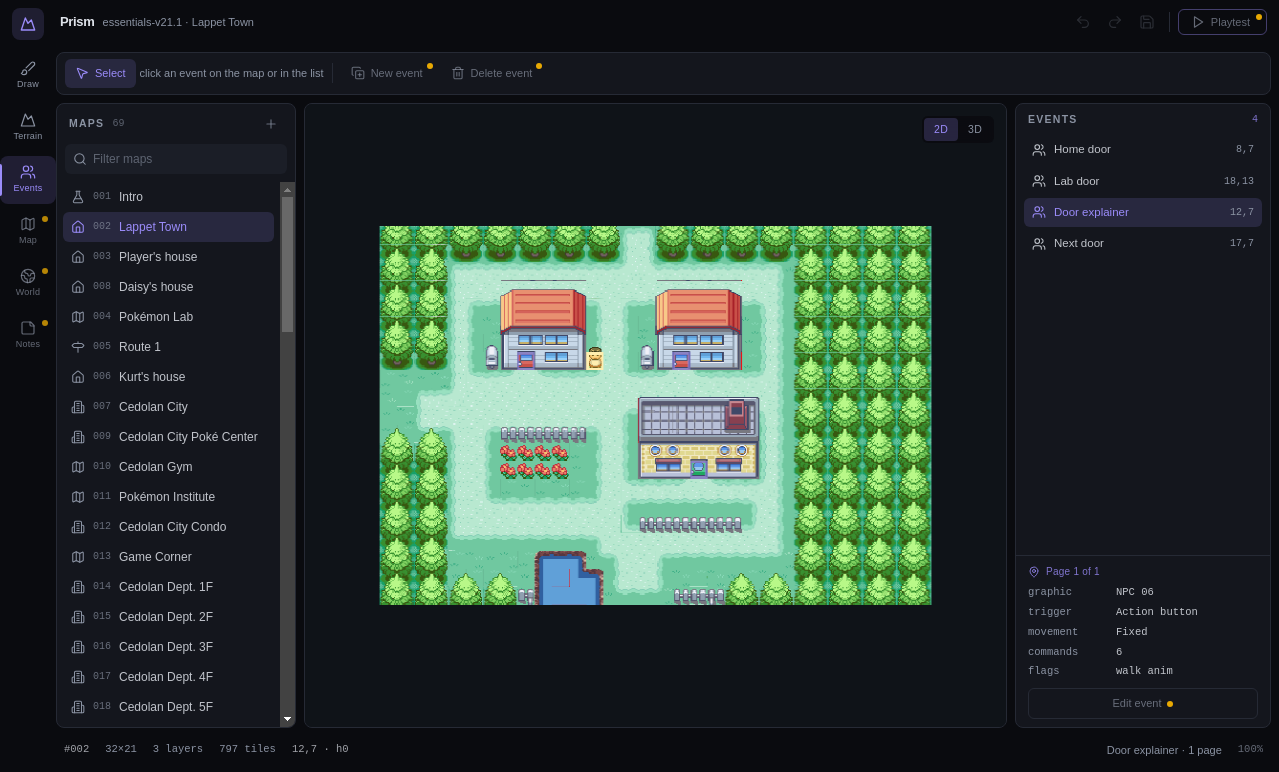
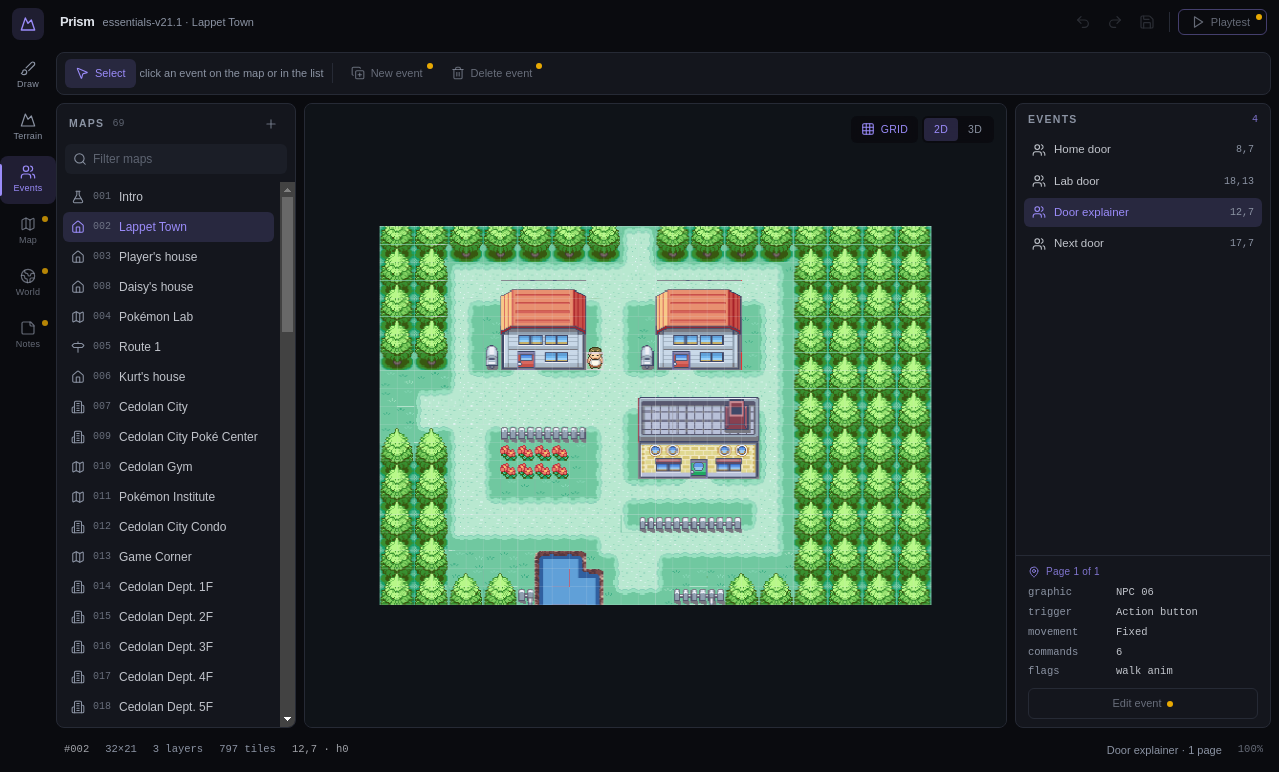
Desenhar a grade de celulas e suavizar as marcas
- Grade ligada por padrao, com botao Grid ao lado do 2D/3D para desligar.
  Linha fina em cada celula e uma mais firme a cada oito, que e o passo do
  tileset. So em 2D: a camera olha reto para baixo, entao grade plana cai
  exatamente na borda da celula por mais que o terreno suba, enquanto em 3D
  ela cortaria o relevo sem ajudar a ler nada.
- Contorno de evento mais fino e mais discreto, e o selecionado passou de
  branco cheio para violeta claro.
- O quadrado que segue o cursor ficou ambar palido em vez de ambar forte.

A grade tambem serviu de regua para uma duvida legitima, se os tiles estao
mesmo encaixados na celula: medindo a borda da parede da casa contra a rede de
celulas, o desvio e de 0,7 pixel de tela. Estao no lugar. O que da impressao de
desencaixe e a reducao: tile de 32 pixels desenhado com uns 17 na tela faz
celula vizinha sair com largura diferente por arredondamento. Zoom em escala
inteira resolve, e ainda nao existe.

Claude-Session: https://claude.ai/code/session_015tLAZHL6PNxbo6Qgs82MPs

Changed region(s): [[0.4574, 0.4352, 0.4879, 0.4974], [0.6708, 0.1554, 0.7013, 0.1865]]

diff --git a/packages/editor/src/ui/viewport/scene3d.ts b/packages/editor/src/ui/viewport/scene3d.ts
@@ -7,6 +7,8 @@ import {
   Mesh,
   MeshBasicMaterial,
   MOUSE,
+  LineBasicMaterial,
+  LineSegments,
   NearestFilter,
   OrthographicCamera,
   PerspectiveCamera,
@@ -69,6 +71,8 @@ export interface Viewport {
   show(scene: BuiltScene, images: ViewportImages): Promise<void>;
   pickCell(x: number, y: number): PickedCell | null;
   highlight(cell: PickedCell | null): void;
+  /** Liga a grade de celulas, que so aparece em 2D. */
+  setGrid(on: boolean): void;
   /** Marca a celula de cada evento, para os que quase nao aparecem. */
   setEventMarks(on: boolean): void;
   /** Destaca um evento pelo id, ou nenhum. */
@@ -177,6 +181,18 @@ export function createViewport(canvas: HTMLCanvasElement): Viewport {
   const marks: { mesh: Mesh; id: number }[] = [];
   let marksOn = false;
   let selected: number | null = null;
+
+  /**
+   * A grade de celulas.
+   *
+   * Plana e por cima de tudo, sem teste de profundidade. Em 2D a camera olha
+   * reto para baixo, entao uma grade plana cai exatamente em cima das bordas
+   * de celula por mais que o terreno suba: elevacao muda a altura, nao a
+   * posicao no plano. Em 3D ela some, porque grade plana cortando relevo nao
+   * ajuda a ler nada.
+   */
+  let grid: { minor: LineSegments; major: LineSegments } | null = null;
+  let gridOn = true;
   /**
    * Textura por URL, viva enquanto a viewport existir.
    *
@@ -197,9 +213,9 @@ export function createViewport(canvas: HTMLCanvasElement): Viewport {
   const marker = new Mesh(
     new PlaneGeometry(1, 1),
     new MeshBasicMaterial({
-      color: 0xffd94d,
+      color: 0xffe9a3,
       transparent: true,
-      opacity: 0.45,
+      opacity: 0.22,
       depthTest: false,
       side: DoubleSide,
     }),
@@ -373,11 +389,11 @@ export function createViewport(canvas: HTMLCanvasElement): Viewport {
       sprites.push({ mesh, billboard });
 
       const mark = new Mesh(
-        outlineGeometry(0.12),
+        outlineGeometry(0.06),
         new MeshBasicMaterial({
           color: 0x9b8cfa,
           transparent: true,
-          opacity: 0.55,
+          opacity: 0.35,
           depthTest: false,
           side: DoubleSide,
         }),
@@ -481,6 +497,7 @@ export function createViewport(canvas: HTMLCanvasElement): Viewport {
 
     lastSizes = sizes;
     drawEvents(next, sizes, loaded);
+    buildGrid(next);
 
     frame(next);
     resize();
@@ -517,14 +534,96 @@ export function createViewport(canvas: HTMLCanvasElement): Viewport {
     marker.visible = true;
   }
 
+  /**
+   * Refaz a grade para o mapa aberto.
+   *
+   * Duas malhas: a fina em cada celula, e uma mais firme a cada oito, que e o
+   * passo do tileset e o que deixa contar distancia sem ficar somando de um
+   * em um.
+   */
+  function buildGrid(target: BuiltScene): void {
+    if (grid !== null) {
+      for (const lines of [grid.minor, grid.major]) {
+        scene.remove(lines);
+        lines.geometry.dispose();
+        (lines.material as LineBasicMaterial).dispose();
+      }
+      grid = null;
+    }
+
+    const step = target.tileSize;
+    const half = step / 2;
+    const left = -half;
+    const top = -half;
+    const right = (target.width - 1) * step + half;
+    const bottom = (target.height - 1) * step + half;
+    // Acima de tudo que a cena desenha, e sem teste de profundidade: a grade e
+    // ajuda de edicao, nao parte do mundo.
+    const y = 0.5;
+
+    const minor: number[] = [];
+    const major: number[] = [];
+    const MAJOR_EVERY = 8;
+
+    for (let x = 0; x <= target.width; x += 1) {
+      const at = left + x * step;
+      const into = x % MAJOR_EVERY === 0 ? major : minor;
+      into.push(at, y, top, at, y, bottom);
+    }
+    for (let z = 0; z <= target.height; z += 1) {
+      const at = top + z * step;
+      const into = z % MAJOR_EVERY === 0 ? major : minor;
+      into.push(left, y, at, right, y, at);
+    }
+
+    const lines = (points: number[], color: number, opacity: number) => {
+      const geometry = new BufferGeometry();
+      geometry.setAttribute(
+        "position",
+        new BufferAttribute(new Float32Array(points), 3),
+      );
+      const mesh = new LineSegments(
+        geometry,
+        new LineBasicMaterial({
+          color,
+          transparent: true,
+          opacity,
+          depthTest: false,
+        }),
+      );
+      mesh.renderOrder = 9;
+      scene.add(mesh);
+      return mesh;
+    };
+
+    grid = {
+      minor: lines(minor, 0xdfe3ea, 0.15),
+      major: lines(major, 0xdfe3ea, 0.3),
+    };
+    paintGrid();
+  }
+
+  /** A grade vale so em 2D, e so quando ligada. */
+  function paintGrid(): void {
+    const on = gridOn && mode === "2d";
+    if (grid === null) return;
+    grid.minor.visible = on;
+    grid.major.visible = on;
+  }
+
+  function setGrid(on: boolean): void {
+    gridOn = on;
+    paintGrid();
+  }
+
   /** Aplica a visibilidade e o destaque das marcas de evento. */
   function paintMarks(): void {
     for (const { mesh, id } of marks) {
       mesh.visible = marksOn;
       const material = mesh.material as MeshBasicMaterial;
       const chosen = id === selected;
-      material.opacity = chosen ? 1 : 0.55;
-      material.color.set(chosen ? 0xffffff : 0x9b8cfa);
+      material.opacity = chosen ? 0.7 : 0.35;
+      material.color.set(chosen ? 0xd9d0ff : 0x9b8cfa);
     }
   }
 
@@ -551,6 +650,7 @@ export function createViewport(canvas: HTMLCanvasElement): Viewport {
     controls = new OrbitControls(camera, canvas);
 
     framedFor = "";
+    paintGrid();
     if (built !== null) {
       layoutEvents(built, lastSizes);
       frame(built);
@@ -581,12 +681,21 @@ export function createViewport(canvas: HTMLCanvasElement): Viewport {
     show,
     pickCell,
     highlight,
+    setGrid,
     setEventMarks,
     selectEvent,
     setMode,
     resize,
     dispose(): void {
       clear();
+      if (grid !== null) {
+        for (const lines of [grid.minor, grid.major]) {
+          scene.remove(lines);
+          lines.geometry.dispose();
+          (lines.material as LineBasicMaterial).dispose();
+        }
+        grid = null;
+      }
       for (const texture of textureCache.values()) texture.dispose();
       textureCache.clear();
       controls.dispose();

diff --git a/packages/editor/src/ui/App.tsx b/packages/editor/src/ui/App.tsx
@@ -1,3 +1,4 @@
+import { Grid3x3 } from "lucide-react";
 import { useCallback, useEffect, useRef, useState } from "react";
 import { applyBrush, levelTo } from "../scene/elevation.js";
 import {
@@ -40,6 +41,7 @@ export function App() {
   const [layer, setLayer] = useState(0);
   const [stamp, setStamp] = useState<Stamp>(singleStamp(384));
   const [view, setView] = useState<"2d" | "3d">("2d");
+  const [grid, setGrid] = useState(true);
   const [hovered, setHovered] = useState<PickedCell | null>(null);
   const [event, setEvent] = useState<number | null>(null);
   const [message, setMessage] = useState<string | null>(null);
@@ -252,9 +254,10 @@ export function App() {
    * as marcas nascem escondidas.
    */
   useEffect(() => {
+    viewport.current?.setGrid(grid);
     viewport.current?.setEventMarks(mode === "events");
     viewport.current?.selectEvent(mode === "events" ? event : null);
-  }, [mode, event, project.revision, state.map]);
+  }, [mode, event, grid, project.revision, state.map]);
 
   useEffect(() => {
     function onKey(event: KeyboardEvent): void {
@@ -351,7 +354,27 @@ export function App() {
           />
 
           <main className="relative min-w-0 flex-1 overflow-hidden rounded-lg border border-edge bg-panel">
-            <div className="absolute right-3 top-3 z-10 flex overflow-hidden rounded-md bg-shell/80 p-0.5 backdrop-blur">
+            <div className="absolute right-3 top-3 z-10 flex items-center gap-1">
+              {view === "2d" ? (
+                <button
+                  type="button"
+                  onClick={() => {
+                    setGrid(!grid);
+                    viewport.current?.setGrid(!grid);
+                  }}
+                  aria-pressed={grid}
+                  title="Cell grid"
+                  data-grid={grid ? "on" : "off"}
+                  className={`flex items-center gap-1.5 rounded-md bg-shell/80 px-2.5 py-1.5 text-[10.5px] font-medium tracking-wide backdrop-blur transition-colors ${
+                    grid ? "text-brand" : "text-dim hover:text-body"
+                  }`}
+                >
+                  <Grid3x3 className="h-3.5 w-3.5" strokeWidth={1.8} />
+                  GRID
+                </button>
+              ) : null}
+
+              <div className="flex overflow-hidden rounded-md bg-shell/80 p-0.5 backdrop-blur">
               {(["2d", "3d"] as const).map((option) => (
                 <button
                   key={option}
@@ -371,6 +394,7 @@ export function App() {
                   {option.toUpperCase()}
                 </button>
               ))}
+              </div>
             </div>
 
             {state.error !== null ? (

diff --git a/packages/editor/src/ui/Viewport.tsx b/packages/editor/src/ui/Viewport.tsx
@@ -13,6 +13,7 @@ import type { BuiltScene } from "../scene/buildScene.js";
 export interface ViewportHandle {
   redraw: (scene: BuiltScene) => void;
   highlight: (cell: PickedCell | null) => void;
+  setGrid: (on: boolean) => void;
   setEventMarks: (on: boolean) => void;
   selectEvent: (id: number | null) => void;
   setMode: (mode: ViewMode) => void;
@@ -100,6 +101,7 @@ export function Viewport({
         void view.show(scene, { sources: imagesOf(current) });
       },
       highlight: (cell) => viewRef.current?.highlight(cell),
+      setGrid: (on) => viewRef.current?.setGrid(on),
       setEventMarks: (on) => viewRef.current?.setEventMarks(on),
       selectEvent: (id) => viewRef.current?.selectEvent(id),
       setMode: (mode) => viewRef.current?.setMode(mode),

diff --git a/packages/editor/src/main/main.ts b/packages/editor/src/main/main.ts
@@ -168,6 +168,15 @@ async function rehearseEvents(window: BrowserWindow): Promise<void> {
   // A celula do NPC que explica as portas, em 12,7 no mapa.
   await click(595, 357);
   await wait(400);
+
+  // Desliga e liga a grade, para o ensaio passar pelos dois sentidos do
+  // botao e ainda assim terminar com ela ligada para o print.
+  for (const _ of [0, 1]) {
+    await window.webContents.executeJavaScript(
+      "document.querySelector('[data-grid]')?.click()",
+    );
+    await wait(300);
+  }
 }
 
 async function captureAndQuit(

diff --git a/CLAUDE.md b/CLAUDE.md
@@ -39,6 +39,11 @@ Essentials de referência do próprio repositório, sem configuração.
 O editor abre em **2D**, que é o modo certo para desenhar: o dado de um mapa
 do RPG Maker é 2D, e o 3D existe para conferir relevo. O botão 2D/3D troca.
 
+A **grade de células** vem ligada e o botão Grid desliga. Ela é plana e fica
+por cima de tudo, o que basta em 2D: a câmera olha reto para baixo, então
+elevação muda a altura e não a posição no plano. Em 3D ela some, porque grade
+plana cortando relevo não ajuda a ler nada.
+
 **A interface do editor é em inglês**, e só ela: comentários de código,
 mensagens de commit e documentação seguem em português. O público de
 Pokémon Essentials é majoritariamente anglófono.
